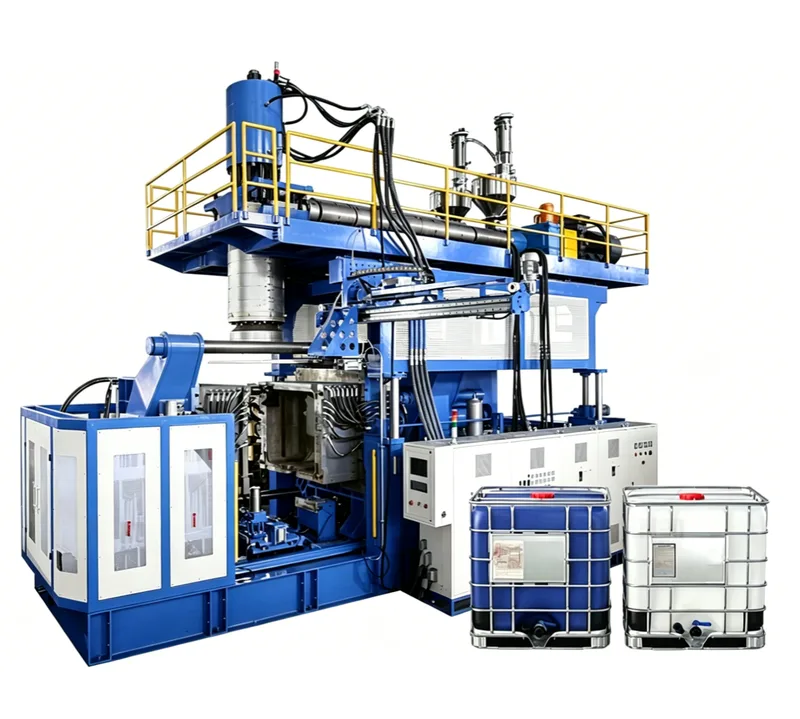
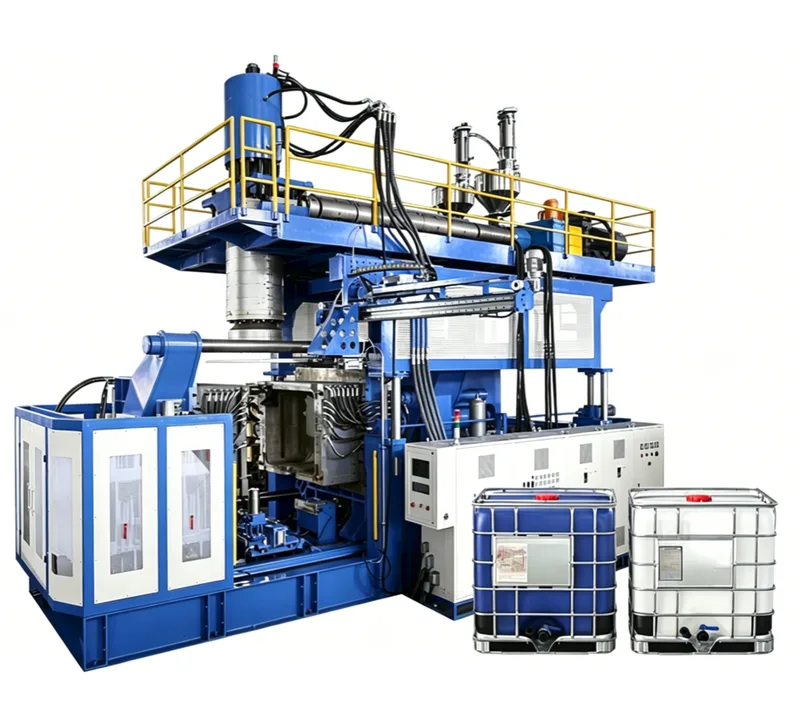
chore: 更新吹塑机器2图片

Changed region(s): [[0.0, 0.0923, 0.9688, 0.9538]]

diff --git a/hardware.html b/hardware.html
@@ -6,7 +6,7 @@
 <title data-i18n="page.title">永益吹塑 — 硬件实力</title>
 <link rel="icon" type="image/png" sizes="32x32" href="assets/images/favicon-32.png">
 <link rel="apple-touch-icon" sizes="180x180" href="assets/images/apple-touch-icon.png">
-<link rel="stylesheet" href="assets/css/main.css?v=1782481691">
+<link rel="stylesheet" href="assets/css/main.css?v=1782481841">
 </head>
 <body>
 
@@ -278,7 +278,7 @@
   </div>
 </div>
 
-<script src="assets/js/main.js?v=1782481691"></script>
+<script src="assets/js/main.js?v=1782481841"></script>
 <script>
 mergeTranslations({
   zh: {

diff --git a/index.html b/index.html
@@ -6,7 +6,7 @@
 <title data-i18n="page.title">永益吹塑 — 关于我们</title>
 <link rel="icon" type="image/png" sizes="32x32" href="assets/images/favicon-32.png">
 <link rel="apple-touch-icon" sizes="180x180" href="assets/images/apple-touch-icon.png">
-<link rel="stylesheet" href="assets/css/main.css?v=1782481691">
+<link rel="stylesheet" href="assets/css/main.css?v=1782481841">
 </head>
 <body>
 
@@ -183,7 +183,7 @@
   </div>
 </div>
 
-<script src="assets/js/main.js?v=1782481691"></script>
+<script src="assets/js/main.js?v=1782481841"></script>
 <script>
 // Page-specific translations
 mergeTranslations({

diff --git a/product.html b/product.html
@@ -6,7 +6,7 @@
 <title data-i18n="page.title">永益吹塑 — 产品展示</title>
 <link rel="icon" type="image/png" sizes="32x32" href="assets/images/favicon-32.png">
 <link rel="apple-touch-icon" sizes="180x180" href="assets/images/apple-touch-icon.png">
-<link rel="stylesheet" href="assets/css/main.css?v=1782481691">
+<link rel="stylesheet" href="assets/css/main.css?v=1782481841">
 </head>
 <body>
 
@@ -265,7 +265,7 @@
   </div>
 </div>
 
-<script src="assets/js/main.js?v=1782481691"></script>
+<script src="assets/js/main.js?v=1782481841"></script>
 <script>
 // Category filter
 document.querySelectorAll('.cat-btn').forEach(btn => {

diff --git a/team.html b/team.html
@@ -6,7 +6,7 @@
 <title data-i18n="page.title">永益吹塑 — 领导团队</title>
 <link rel="icon" type="image/png" sizes="32x32" href="assets/images/favicon-32.png">
 <link rel="apple-touch-icon" sizes="180x180" href="assets/images/apple-touch-icon.png">
-<link rel="stylesheet" href="assets/css/main.css?v=1782481691">
+<link rel="stylesheet" href="assets/css/main.css?v=1782481841">
 </head>
 <body>
 
@@ -149,7 +149,7 @@
   </div>
 </div>
 
-<script src="assets/js/main.js?v=1782481691"></script>
+<script src="assets/js/main.js?v=1782481841"></script>
 <script>
 mergeTranslations({
   zh: {